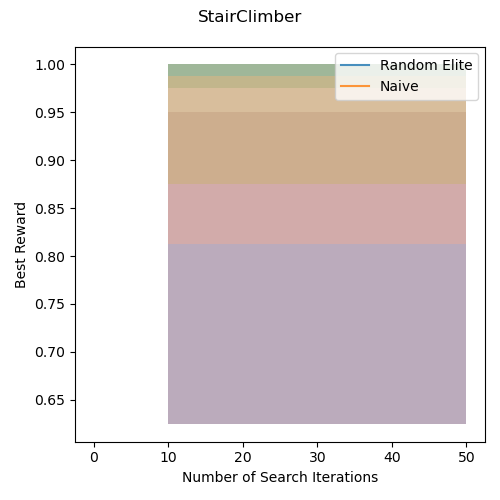
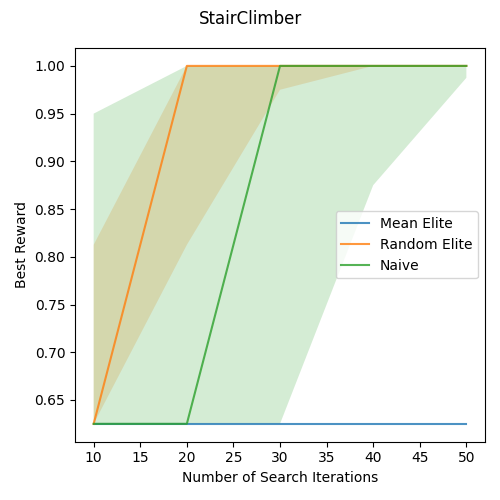
code update

diff --git a/starter/main_plot.py b/starter/main_plot.py
@@ -5,13 +5,13 @@ import numpy as np
 import pandas as pd
 
 methods = [
-    #'mean_elite',
+    'mean_elite',
     'rdm_elite',
     'naive'
 ]
 
 method_labels = [
-    #'Mean Elite',
+    'Mean Elite',
     'Random Elite',
     'Naive'
 ]
@@ -51,8 +51,12 @@ if __name__ == '__main__':
                 method_median.append(method_data['Reward of Final Program:'].median())
                 method_low.append(method_data['Reward of Final Program:'].quantile(0.2))
                 method_high.append(method_data['Reward of Final Program:'].quantile(0.8))
+            
+            list_median.append(method_median)
+            list_low.append(method_low)
+            list_high.append(method_high)
         
-        print(list_median)
+        print(f"method: {method}; median:", method_low, method_high)
 
         plt.figure(figsize=(5,5))
         plt.suptitle(f'{task}')
@@ -60,12 +64,12 @@ if __name__ == '__main__':
         plt.xlabel('Number of Search Iterations')
         plt.ylabel('Best Reward') #averaged across seeds
         
-        for median, low, high in zip(list_median, list_low, list_high):
+        for median, low, high in zip(list_median, list_low, list_high): #median, low, high in zip(list_median, list_low, list_high):
             plt.fill_between([10,20,30,40,50], low, high, alpha=0.2, label='_nolegend_')
-            plt.plot(median, alpha=0.8)
+            plt.plot([10,20,30,40,50], median, alpha=0.8)
         
         plt.legend(method_labels)
-        
         plt.tight_layout()
         plt.savefig(f'{output_folder}/{task}.png')
         plt.close()
+

diff --git a/starter/config/config.py b/starter/config/config.py
@@ -31,8 +31,8 @@ class Config:
     
     env_task: Annotated[str, 'Name of Karel task to solve.'] = 'StairClimber' #'MazeSparse'
     env_seed: Annotated[int, 'Seed for random environment generation.'] = 1
-    env_height: Annotated[int, 'Height of Karel environment.'] = 16 #8 for stairclimber, 16 for maze
-    env_width: Annotated[int, 'Width of Karel environment.'] = 16 #8 for stairclimber, 16 for maze
+    env_height: Annotated[int, 'Height of Karel environment.'] = 8 #8 for stairclimber, 16 for maze
+    env_width: Annotated[int, 'Width of Karel environment.'] = 8 #8 for stairclimber, 16 for maze
     env_enable_leaps_behaviour: Annotated[bool, 'If set, uses LEAPS version of Karel rules.'] = False
     env_is_crashable: Annotated[bool, 'If set, program stops when Karel crashes.'] = False
     

diff --git a/starter/search/latent_search.py b/starter/search/latent_search.py
@@ -128,7 +128,7 @@ class LatentSearch:
                 for i in range(self.population_size):
                      individual = torch.zeros(1,self.model_hidden_size)
                      for i in range(self.model_hidden_size):
-                          individual[0][i] += self.sigma * float(torch.normal(mean=0.0, std=1.0*iter, size=(1,1)))
+                          individual[0][i] += self.sigma * float(torch.normal(mean=0.0, std=1.0*(iter+1), size=(1,1)))
                      p.append(individual)
             else: 
                 print(f"{self.search_type} is not a valid search type")

diff --git a/starter/main_latent_search.py b/starter/main_latent_search.py
@@ -54,7 +54,7 @@ if __name__ == '__main__':
     #main experiment control
 
     num_trials = 20 #20 = number of seeds, used to report average best program and error
-    search_iterations = [10, 30, 40, 50] #[10, 20, 30, 40, 50]
+    search_iterations = [10, 20] #[10, 20, 30, 40, 50]
 
     for num_iterations in search_iterations:
         Config.search_number_iterations = num_iterations
